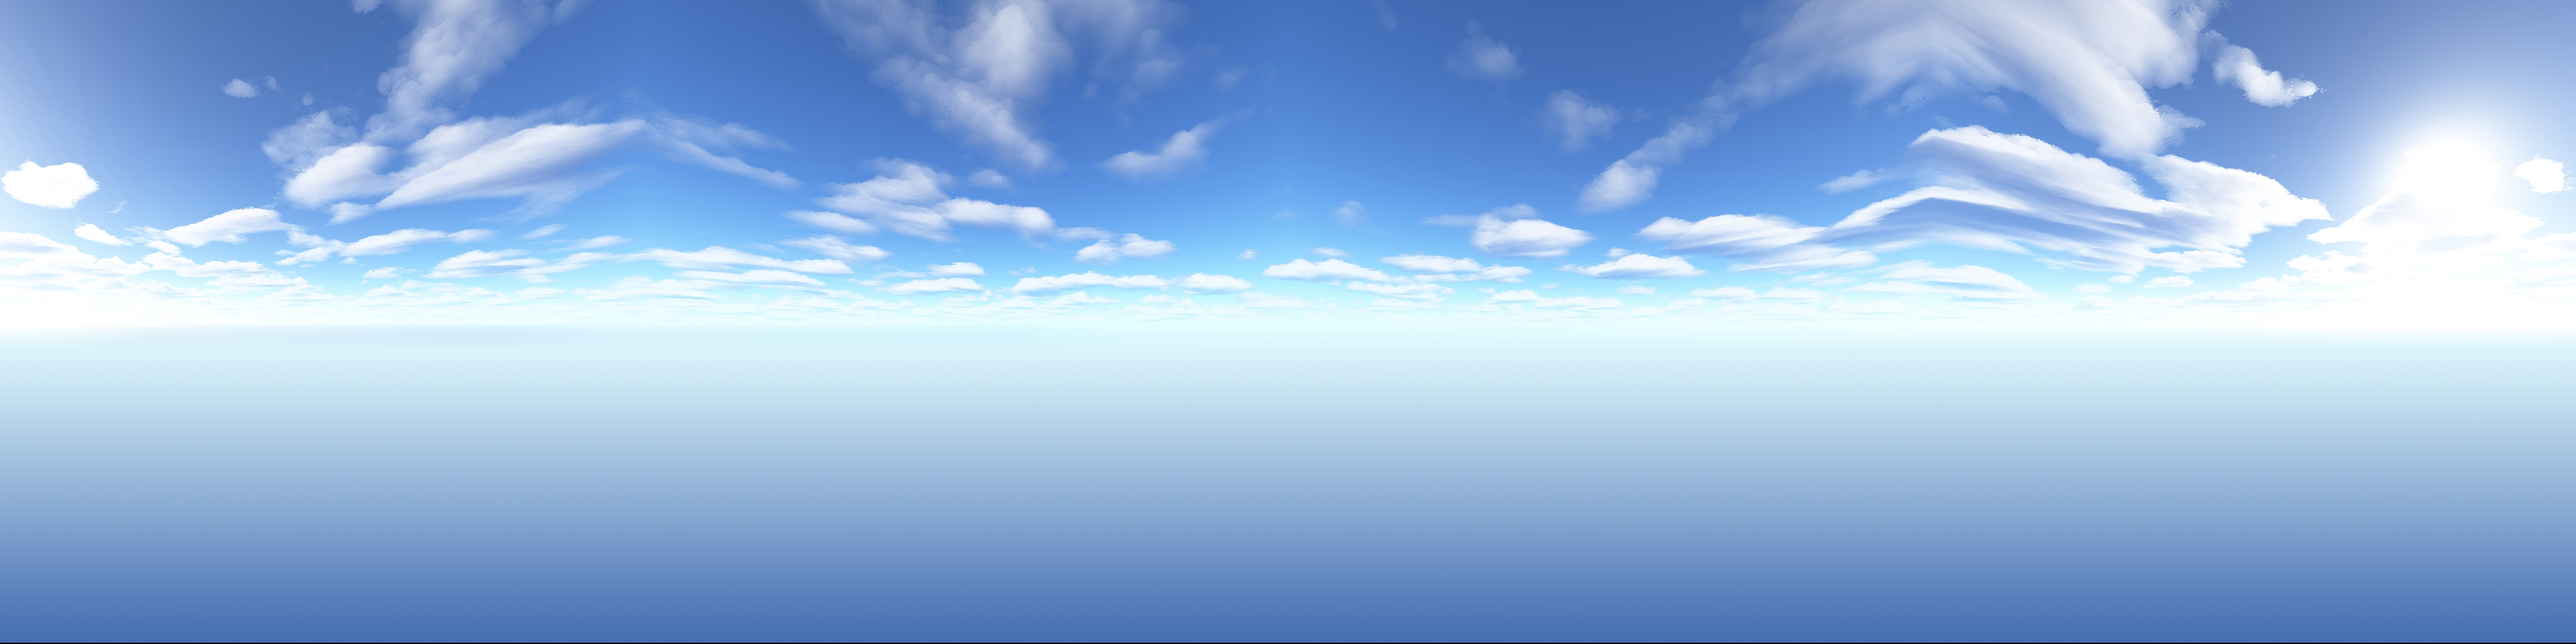
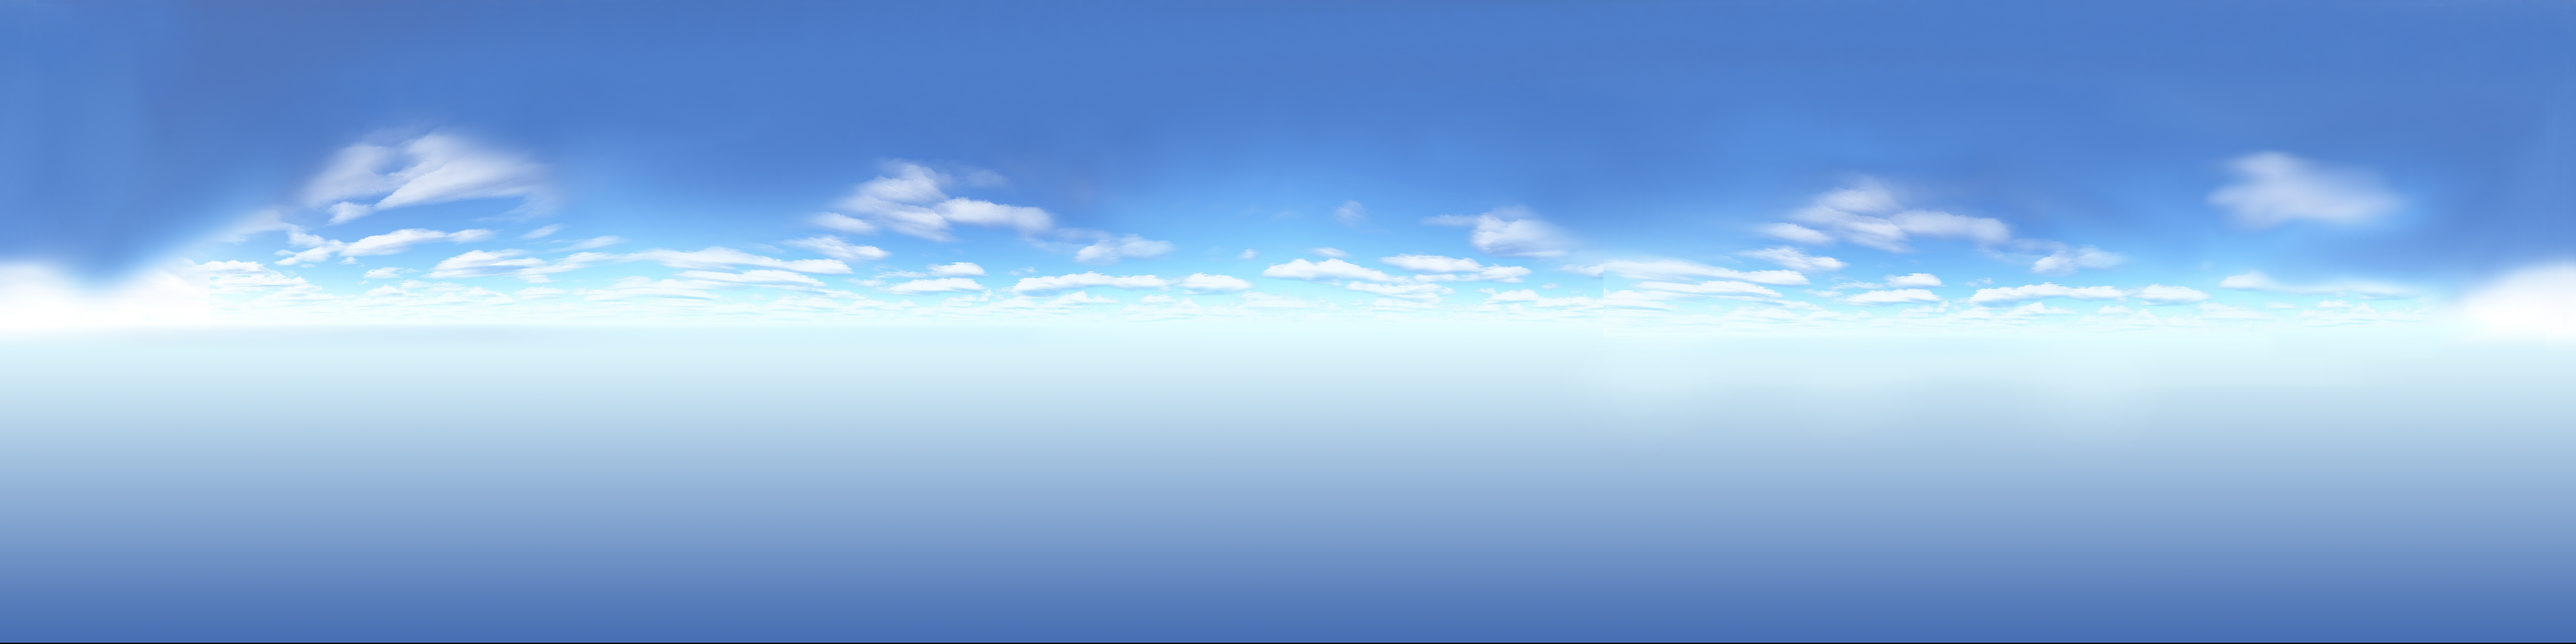
aggiornato cielo

diff --git a/betulla.js b/betulla.js
@@ -186,27 +186,23 @@ function init() {
     dirLight.position.set(  1, 1.75, -1 );
     scene.add( dirLight );
 
-    let material_array = [];
-    let texture_ft = new THREE.TextureLoader().load("images/skybox3/front.jpg");
-    let texture_bk = new THREE.TextureLoader().load("images/skybox3/back.jpg");
-    let texture_up = new THREE.TextureLoader().load("images/skybox3/top.jpg");
-    let texture_dn = new THREE.TextureLoader().load("images/skybox3/base.jpg");
-    let texture_rt = new THREE.TextureLoader().load("images/skybox3/right.jpg");
-    let texture_lt = new THREE.TextureLoader().load("images/skybox3/left.jpg");
+    var skyGeo = new THREE.SphereGeometry(100000, 25, 25);
+    var loader  = new THREE.TextureLoader();
+    texture = loader.load( "images/sky.jpg" );
+    texture.magFilter = THREE.LinearFilter;
+    texture.minFilter = THREE.LinearFilter;
 
-    material_array.push(new THREE.MeshBasicMaterial({map:texture_ft}));
-    material_array.push(new THREE.MeshBasicMaterial({map:texture_bk}));
-    material_array.push(new THREE.MeshBasicMaterial({map:texture_up}));
-    material_array.push(new THREE.MeshBasicMaterial({map:texture_dn}));
-    material_array.push(new THREE.MeshBasicMaterial({map:texture_rt}));
-    material_array.push(new THREE.MeshBasicMaterial({map:texture_lt}));
-
-    for(let i = 0; i < 6; i++)
-        material_array[i].side = THREE.BackSide;
-
-    let skyboxGeo = new THREE.BoxGeometry(80000,80000,80000);
-    skybox = new THREE.Mesh(skyboxGeo, material_array);
-    scene.add(skybox);
+    const shader = THREE.ShaderLib.equirect;
+    var skyMaterial = new THREE.ShaderMaterial({
+        fragmentShader: shader.fragmentShader,
+        vertexShader: shader.vertexShader,
+        uniforms: shader.uniforms,
+        depthWrite: false,
+        side: THREE.BackSide,
+    });
+    skyMaterial.uniforms.tEquirect.value = texture;
+    sky = new THREE.Mesh(skyGeo, skyMaterial);
+    scene.add(sky);
 
     let controls = new THREE.OrbitControls(camera);
     controls.addEventListener('change',renderer)
@@ -885,10 +881,11 @@ function reset_var(){
 	scene.remove(terrain);
 	scene.remove( light );
 	scene.remove( dirLight );
-	scene.remove(skybox);
+	scene.remove(sky);
 	model.dispose();
 	terrain.dispose();
-	skybox.geometry.dispose();
+	sky.geometry.dispose();
+	sky.material.dispose();
 
 	scene.dispose();
     scene = null;
